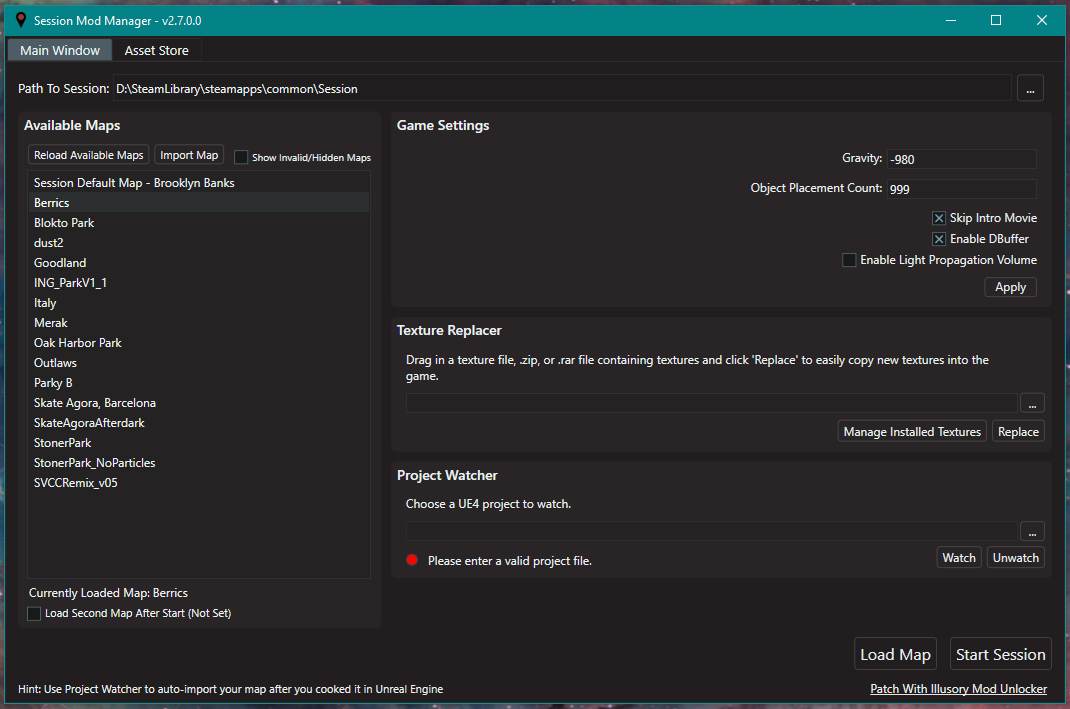
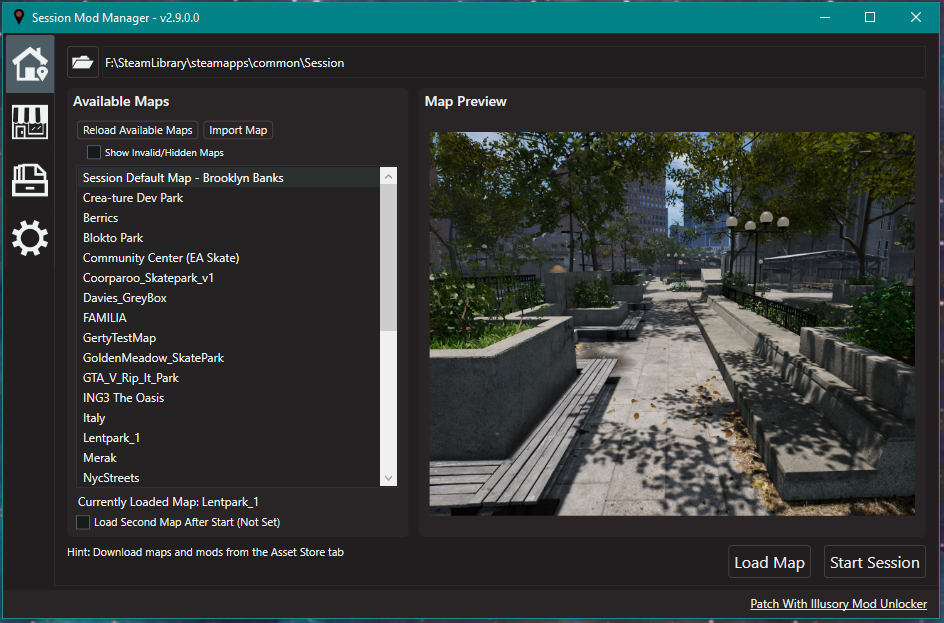
chore: update README

Changed region(s): [[0.0, 0.0, 1.0, 1.0], [0.3686, 0.1525, 0.553, 0.183]]

diff --git a/README.md b/README.md
@@ -5,9 +5,6 @@
 [![GitHub contributors](https://img.shields.io/github/contributors/rodriada000/SessionMapSwitcher)](https://GitHub.com/rodriada000/SessionMapSwitcher/graphs/contributors/)
 [![GitHub issues](https://img.shields.io/github/issues/rodriada000/SessionMapSwitcher)](https://GitHub.com/rodriada000/SessionMapSwitcher/issues/)
 
-### Tutorial Video On How to Use All Features And Troubleshoot Session Mod Manager (Thanks to Redgouf)
-[![Video Preview](https://img.youtube.com/vi/EjqcErdS0jg/0.jpg)](https://www.youtube.com/watch?v=EjqcErdS0jg)
-
 This is a Desktop application to easily mod Session and install custom maps and textures all in one tool. Easily switch between maps in-game without having to restart and download custom textures directly in the app.
 <img src="https://github.com/rodriada000/SessionMapSwitcher/blob/master/docs/images/app_screenshot.png?raw=true" width="75%"> 
 <img src="https://github.com/rodriada000/SessionMapSwitcher/blob/master/docs/images/app_import_online.png?raw=true" width="75%"> 
@@ -45,7 +42,7 @@ _Skip this if you already patched/unpacked the game._
 ### Modify Object Placement Count
 _This feature allows you to change how many objects you can place in-game_
 
-When you Click `Apply` under Game Settings in Mod Manager for the first time, it will prompt you to download the required files for modifying the object count. If unreal engine is already installed on your computer then it will only have to download the `crypto.json` file to unpack a specific file from the game
+In the settings tab you can modify game settings and the object count (how many objects you place down in the object dropper).  You could set it anywhere from 1 to 65,000.
 
 
 ### Adding Custom Maps to Play
@@ -60,7 +57,7 @@ _This is the recommended way to import maps into Session._
 
 #### From Computer
 _Use this option when downloading custom maps from your web browser or for map creators that are working on maps._
-1. Inside Mod Manager click `Import Map` and in the menu that opens click `From Computer ...` and this window will appear. ![](https://github.com/rodriada000/SessionMapSwitcher/blob/master/docs/images/app_import_computer.png?raw=true "Import Online Window")
+1. Inside Mod Manager click `Import Map` and this window will appear. ![](https://github.com/rodriada000/SessionMapSwitcher/blob/master/docs/images/app_import_computer.png?raw=true "Import Online Window")
 2. If you are importing a map from a .zip file then check the `Import .zip File` checkbox.
 3. Browse for the file or folder by clicking `...` or pasting the path directly.
 4. click `Import Map` and the map will be imported in a few seconds depending on the amount of files to copy.
@@ -75,7 +72,7 @@ _This is the final way to add custom maps and is not recommended for beginners. 
 
 ### Loading a Custom Map To Play
 1. Select a modded map from the Available Maps list (_you can also double click the map in the list to load it._).
-2. Before starting the game, change any game settings like gravity _(default value is -980)_ or number of objects you can place down.  
+2. Before starting the game, change any game settings like number of objects you can place down.  
 3. _(Optional)_ Check the `Load Second Map After Start` option so your selected map will be loaded if you go back to the apartment
 4. Click `Start Session` (_this will load the selected map and save your game settings before starting the game_).
 > **NOTE: When you go to the apartment in-game you will have to open Mod Manager and load the custom map again (even if you are not switching to a new map). This is to ensure the custom map is loaded instead of the original Brooklyn Banks map when you leave the apartment.** 
@@ -83,20 +80,20 @@ _This is the final way to add custom maps and is not recommended for beginners. 
 
 ### Switching Maps In-game
 _This assumes you have already Session Mod Manager open and Session running. To load a new map follow the below steps._
-1. Pause Session and return to your apartment.
+1. Pause Session.
 2. `Alt + Tab` to switch back to Session Mod Manager.
 3. Select a new map from the list of available maps (_or double click it to load._).
 4. Click the `Load Map` button.
-5. After the map has loaded `Alt + Tab` to switch back to Session. Then 'Go Skate'. The new map you selected should now load.
+5. After the map has loaded `Alt + Tab` to switch back to Session. Then select a new map and choose Chatham Towers(The modded map will replace Chatham towers in the map selection screen). The new map you selected should now load.
 
 
 ### Switch Back To Original Default Session Map
 _This assumes you have already Session Mod Manager open and Session running. To restore the original NYC Brooklyn Banks level for Session follow these steps._
-1. Pause Session and return to your apartment.
+1. Pause Session.
 2. `Alt + Tab` to switch back to Session Mod Manager.
 3. Select the first map in the list of Available Maps, 'Session Default Map - Brooklyn Banks'.
 4. Click the `Load Map` button.
-5. After the map has loaded `Alt + Tab` to switch back to Session. Then 'Go Skate'. The original map should now load.
+5. After the map has loaded `Alt + Tab` to switch back to Session. Then select the Chatham Towers map. The original map should now load.
 
 
 
@@ -105,13 +102,14 @@ _This assumes you already patched/unpacked the game and have Session Mod Manager
 
 1. Download the texture files you want to use. There is usually 2-3 files for a texture: the `.uexp`, `.uasset`, and sometimes the `.ubulk` file. All three files are needed to replace the texture.
 > Note: The Texture Replacer also supports .zip and .rar files
-2. In Mod Manager click the `...` button inside the `Texture Replacer` section. In the file browse window that opens select the `.uasset` or `.zip` file you downloaded.
+2. In Mod Manager click the button with the folder icon on the `Texture Replacer` tab. In the file browse window that opens select the `.uasset` or `.zip` file you downloaded.
 > NOTE: You only need to select the one `.uasset` file. Mod Manager will know to copy the other required files.
 
 > NOTE: You can also drag & drop .zip, .rar, or .uasset files into the Texture Replacer
 
 3. Click `Replace` and the texture will be replaced.
 <img src="https://github.com/rodriada000/SessionMapSwitcher/blob/master/docs/images/texture_replacer_demo.gif?raw=true" width="90%">
+
 
 > NOTE: Mod Manager relies on the selected texture file to be cooked with the correct texture name or for the file to be named the same as the texture being replaced so Mod Manager can find the correct path for the texture.
 
@@ -130,10 +128,15 @@ _The asset store is curated by the community. You can create a catalog that list
 
 #### Adding a Catalog
 _Use the `Manage Catalogs` button on the asset store tab to add and remove catalogs from the community._
-1. Click `Asset Store` tab at the top to switch to the Asset Store window.
+1. Click `Asset Store` tab on the left to switch to the Asset Store window.
 2. Click `Manage Catalogs` button to open the manage catalog window.
 3. Click `Add Catalog` and then paste the catalog url you found into the textbox that appears. Then click `Confirm`
 > NOTE: Here is an example of a catalog url: https://raw.githubusercontent.com/rodriada000/SessionCustomMapReleases/master/DefaultSMMCatalog.json 
+
+
+### Tutorial Video On How to Use All Features And Troubleshoot Session Mod Manager
+_shows older version, but still applies to newer versions_ 
+[![Video Preview](https://img.youtube.com/vi/EjqcErdS0jg/0.jpg)](https://www.youtube.com/watch?v=EjqcErdS0jg)
 
 ## Credits
 * Thanks to [Illusory Modding](https://discord.gg/3JAe2K) for the [Universal Mod Unlocker](https://illusory.dev/)
